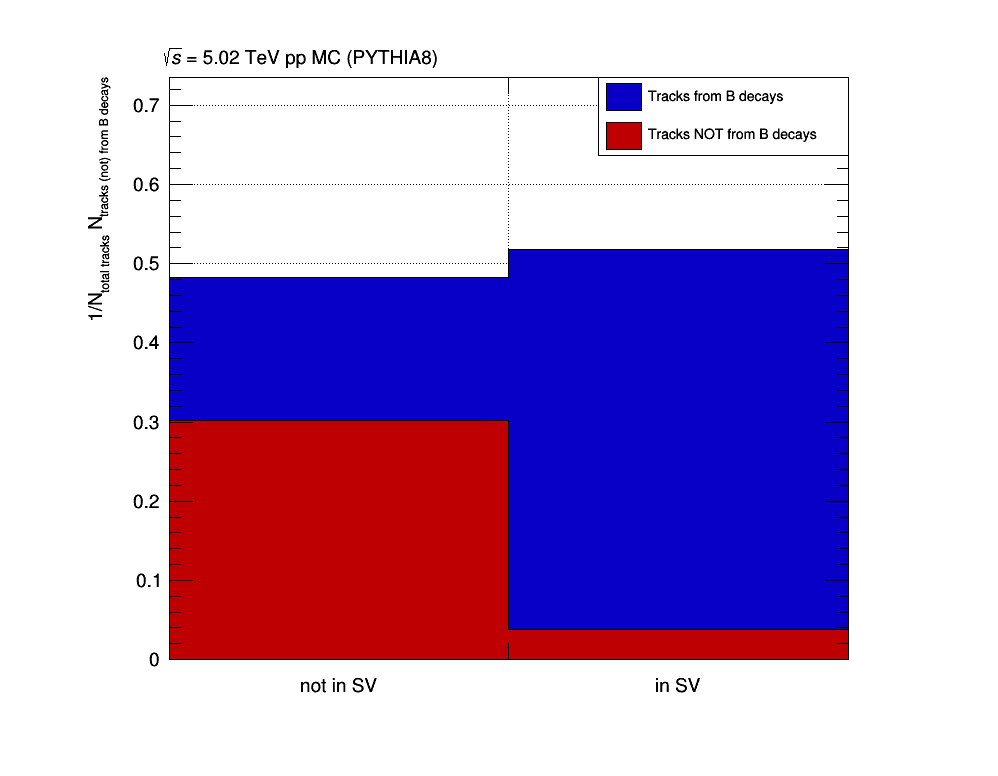
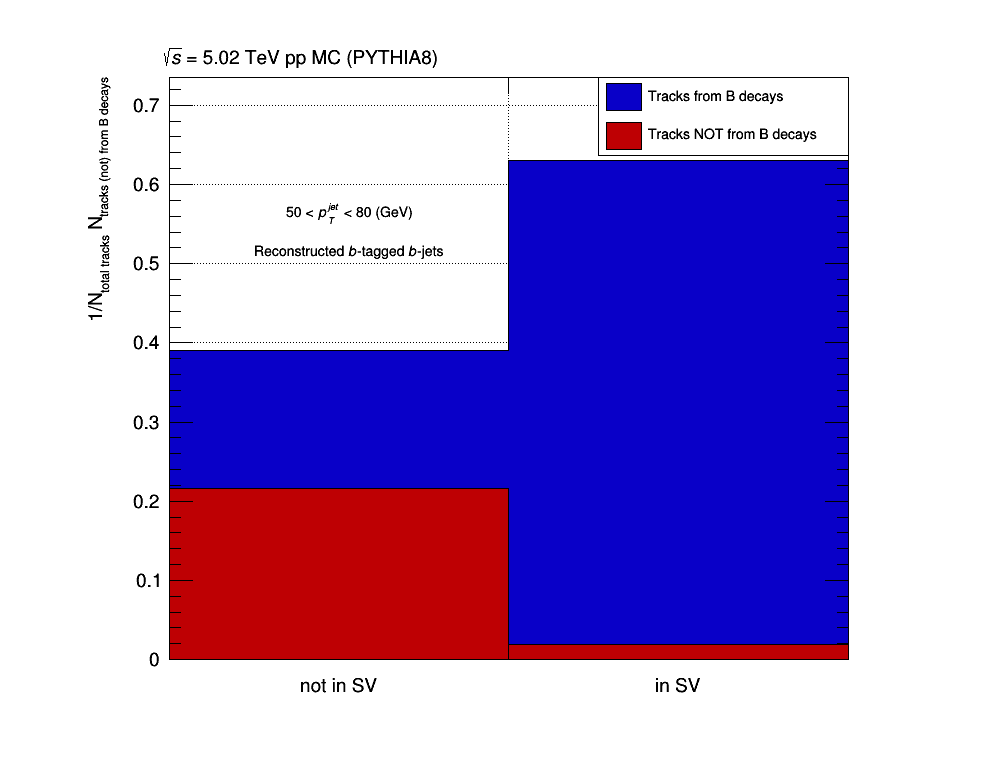
fix jetpt range and remove gsp

diff --git a/myMacros/svvar_discr_power/plot_discriminants.C b/myMacros/svvar_discr_power/plot_discriminants.C
@@ -1,7 +1,7 @@
 #include "TFile.h"
 #include "TTree.h"
 #include "TH1D.h"
-#include "TH2D.h"
+#include "TH3D.h"
 #include "TCanvas.h"
 
 #include "TreeAnalyzer.h"
@@ -13,7 +13,7 @@
 
 void plot_discriminants() 
 {
-    std::string finname = "/data_CMS/cms/kalipoliti/bJetMC/aggregateB_ip3dSig_looserCut_fixedBugs/merged_HiForestAOD.root";
+    std::string finname = "/data_CMS/cms/kalipoliti/bJetMC/aggregateB_truthInfo_fixedBugs/merged_HiForestAOD.root";
     TreeAnalyzer ta(finname, true);
 
     // Activate branches of interest
@@ -37,20 +37,25 @@ void plot_discriminants()
     Float_t x1min = -45.;
     Float_t x1max = 99.;
 
-    TH1D *hsig_ip3dSig = new TH1D("hsig_ip3dSig", "histogram of ip3dSig, signal", x1bins, x1min, x1max);
-    TH1D *hbkg_ip3dSig = new TH1D("hbkg_ip3dSig", "histogram of ip3dSig, background", x1bins, x1min, x1max);
+    //TH1D *hsig_ip3dSig = new TH1D("hsig_ip3dSig", "histogram of ip3dSig, signal", x1bins, x1min, x1max);
+    //TH1D *hbkg_ip3dSig = new TH1D("hbkg_ip3dSig", "histogram of ip3dSig, background", x1bins, x1min, x1max);
 
     // in SV
     Int_t x2bins = 2;
     Float_t x2min = 0.;
     Float_t x2max = 1.;
 
-    TH1D *hsig_inSV = new TH1D("hsig_inSV", "histogram of inSV, signal", x2bins, x2min, x2max);
-    TH1D *hbkg_inSV = new TH1D("hbkg_inSV", "histogram of inSV, background", x2bins, x2min, x2max);
+    //TH1D *hsig_inSV = new TH1D("hsig_inSV", "histogram of inSV, signal", x2bins, x2min, x2max);
+    //TH1D *hbkg_inSV = new TH1D("hbkg_inSV", "histogram of inSV, background", x2bins, x2min, x2max);
 
-    // ip3dSig and in SV 2d
-    TH2D *hsig_2d = new TH2D("hsig_2d", "2d histogram of ip3dSig and inSV, signal", x1bins, x1min, x1max, x2bins, x2min, x2max);
-    TH2D *hbkg_2d = new TH2D("hbkg_2d", "2d histogram of ip3dSig and inSV, background", x1bins, x1min, x1max, x2bins, x2min, x2max);
+    // jet pt
+    Int_t z1bins = 27*3;
+    Float_t z1min = 30.;
+    Float_t z1max = 300.;
+
+    // ip3dSig, inSV, jetpt
+    TH3D *hsig_3d = new TH3D("hsig_3d", "3d histogram of ip3dSig, inSV, jetpt signal", x1bins, x1min, x1max, x2bins, x2min, x2max, z1bins, z1min, z1max);
+    TH3D *hbkg_3d = new TH3D("hbkg_3d", "3d histogram of ip3dSig, inSV, jetpt background", x1bins, x1min, x1max, x2bins, x2min, x2max, z1bins, z1min, z1max);
 
     /*
     // svtxdls
@@ -83,13 +88,19 @@ void plot_discriminants()
         Int_t itrackOffset = 0;
 
         for (Int_t ijet = 0; ijet < ta.nref; ijet++) {
-		    // bjet & eta cut & pt cut
+		    // bjet & eta cut 
             bool isBjet = (ta.jtDiscDeepFlavourB[ijet] + ta.jtDiscDeepFlavourBB[ijet] + ta.jtDiscDeepFlavourLEPB[ijet]) > 0.9;
 
-		    if ((!isBjet) || (std::abs(ta.jteta[ijet]) > 2) || (ta.jtpt[ijet] < 100)) {
-			   itrackOffset += ta.nselIPtrk[ijet];
-               continue;
+		    if ((!isBjet) || (std::abs(ta.jteta[ijet]) > 2)) {
+			    itrackOffset += ta.nselIPtrk[ijet];
+                continue;
 			}
+
+            // remove GSP 
+            if (ta.jtNbHad[ijet] != 1) {
+                itrackOffset += ta.nselIPtrk[ijet];
+                continue;
+            }
 
             // Go over jet tracks
             for (Int_t itrack = 0; itrack < ta.nselIPtrk[ijet]; itrack++) {
@@ -115,13 +126,13 @@ void plot_discriminants()
                 if (inSV) putInSV = 0.9;
 
                 if (sta >= 100) {
-                    hsig_ip3dSig->Fill(ip3dSig, weight);
-                    hsig_inSV->Fill(putInSV, weight);
-                    hsig_2d->Fill(ip3dSig, putInSV, weight);
+                    //hsig_ip3dSig->Fill(ip3dSig, weight);
+                    //hsig_inSV->Fill(putInSV, weight);
+                    hsig_3d->Fill(ip3dSig, putInSV, ta.jtpt[ijet], weight);
                 } else if (sta == 1) {
-                    hbkg_ip3dSig->Fill(ip3dSig, weight);
-                    hbkg_inSV->Fill(putInSV, weight);
-                    hbkg_2d->Fill(ip3dSig, putInSV, weight);
+                    //hbkg_ip3dSig->Fill(ip3dSig, weight);
+                    //hbkg_inSV->Fill(putInSV, weight);
+                    hbkg_3d->Fill(ip3dSig, putInSV, ta.jtpt[ijet], weight);
                 }
             } // track loop
             itrackOffset += ta.nselIPtrk[ijet];
@@ -129,10 +140,10 @@ void plot_discriminants()
     } // entry loop
 
     std::cout << "Saving histograms in " << foutname << std::endl;
-    for (auto h : {hsig_inSV, hsig_ip3dSig, hbkg_inSV, hbkg_ip3dSig}) {
-        h->Write();
-    }
-    hsig_2d->Write();
-    hbkg_2d->Write();
+    //for (auto h : {hsig_inSV, hsig_ip3dSig, hbkg_inSV, hbkg_ip3dSig}) {
+    //    h->Write();
+    //}
+    hsig_3d->Write();
+    hbkg_3d->Write();
     fout->Close();
 }

diff --git a/myMacros/svvar_discr_power/draw_discriminants.C b/myMacros/svvar_discr_power/draw_discriminants.C
@@ -1,5 +1,6 @@
 #include "TFile.h"
 #include "TH1D.h"
+#include "TH3D.h"
 #include "TCanvas.h"
 #include "TLegend.h"
 #include "TStyle.h"
@@ -13,13 +14,21 @@ void draw_discriminants()
 	std::string fname = "bDiscriminants_histos.root";
 
     TFile *fin = new TFile((indir + fname).c_str());
-    TH1D *hsig_ip3dSig = (TH1D *) fin->Get("hsig_ip3dSig");
-    TH1D *hbkg_ip3dSig = (TH1D *) fin->Get("hbkg_ip3dSig");
-    TH1D *hsig_inSV = (TH1D *) fin->Get("hsig_inSV");
-    TH1D *hbkg_inSV = (TH1D *) fin->Get("hbkg_inSV");
+    TH3D *hsig_3d = (TH3D *) fin->Get("hsig_3d");
+    TH3D *hbkg_3d = (TH3D *) fin->Get("hbkg_3d");
 
-    hsig_ip3dSig->GetXaxis()->SetRange(0, hsig_ip3dSig->GetNbinsX() + 1);
-    hbkg_ip3dSig->GetXaxis()->SetRange(0, hbkg_ip3dSig->GetNbinsX() + 1);
+    // Get pt range projections in 1d
+    Float_t ptmin = 50.;
+    Float_t ptmax = 80.;
+
+    hsig_3d->GetZaxis()->SetRangeUser(ptmin, ptmax);
+    hbkg_3d->GetZaxis()->SetRangeUser(ptmin, ptmax);
+
+    TH1D *hsig_ip3dSig = (TH1D *) hsig_3d->Project3D("x");
+    TH1D *hbkg_ip3dSig = (TH1D *) hbkg_3d->Project3D("x");
+    TH1D *hsig_inSV = (TH1D *) hsig_3d->Project3D("y");
+    TH1D *hbkg_inSV = (TH1D *) hbkg_3d->Project3D("y");
+
     Float_t total_tracks = hsig_ip3dSig->Integral() + hbkg_ip3dSig->Integral();
     Float_t ip3dSig_bin_width = hsig_ip3dSig->GetXaxis()->GetBinWidth(1);
 
@@ -79,6 +88,21 @@ void draw_discriminants()
     mcinfo->SetTextSize(20);
     mcinfo->AddText("#it{#sqrt{s}} = 5.02 TeV pp MC (PYTHIA8)");
     
+    TPaveText *info = new TPaveText(0.55, 0.47, 0.85, 0.58, "ndc");
+    info->SetBorderSize(0);
+    info->SetFillColor(0);
+    info->SetFillStyle(0);
+    info->SetTextSize(15);
+    info->AddText(Form("%.0f < #it{p_{T}^{jet}} < %0.f (GeV)", ptmin, ptmax));
+    info->AddText("Reconstructed #it{b}-tagged #it{b}-jets");
+
+    TPaveText *infosv = new TPaveText(0.25, 0.65, 0.45, 0.75, "ndc");
+    infosv->SetBorderSize(0);
+    infosv->SetFillColor(0);
+    infosv->SetFillStyle(0);
+    infosv->SetTextSize(15);
+    infosv->AddText(Form("%.0f < #it{p_{T}^{jet}} < %0.f (GeV)", ptmin, ptmax));
+    infosv->AddText("Reconstructed #it{b}-tagged #it{b}-jets");
 
     TCanvas *c_ip3dSig = new TCanvas("c_ip3dSig", "", 1000, 800);
     c_ip3dSig->SetGrid(1);
@@ -86,6 +110,7 @@ void draw_discriminants()
     hstack_ip3dSig->Draw("hist");
     leg_ip3dSig->Draw();
     mcinfo->Draw();
+    info->Draw();
     c_ip3dSig->Draw();
 	std::string savename_ip3dSig = "ip3dSig.png";
 	c_ip3dSig->Print(savename_ip3dSig.c_str(), "png");
@@ -96,6 +121,7 @@ void draw_discriminants()
     hstack_inSV->Draw("hist");
     hstack_inSV->SetMaximum(0.7);
     mcinfo->Draw();
+    infosv->Draw();
     leg_inSV->Draw();
     c_inSV->Draw();
 	std::string savename_inSV = "inSV.png";
